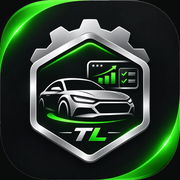
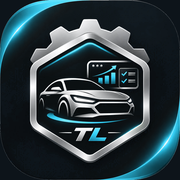
Íconos de las 4 apps en la paleta azul profundo / petróleo / turquesa
Claude-Session: https://claude.ai/code/session_01U6QaDLZrHGH71pmuLjEWnv

diff --git a/app/public/tecnicos/sw.js b/app/public/tecnicos/sw.js
@@ -1,6 +1,6 @@
 // Service worker de la app de técnicos: guarda la "cáscara" de la app para abrir rápido y sin conexión.
 // Los datos (Supabase) siempre se piden a la red; nunca se guardan en caché.
-const CACHE = 'tecnicos-v4'
+const CACHE = 'tecnicos-v5'
 self.addEventListener('install', e => { self.skipWaiting() })
 self.addEventListener('activate', e => {
   e.waitUntil(caches.keys().then(ks => Promise.all(ks.filter(k => k !== CACHE).map(k => caches.delete(k)))).then(() => self.clients.claim()))

diff --git a/app/public/gerencia/sw.js b/app/public/gerencia/sw.js
@@ -1,6 +1,6 @@
 // Service worker de la app de gerencia: guarda la "cáscara" de la app para abrir rápido y sin conexión.
 // Los datos (Supabase) siempre se piden a la red; nunca se guardan en caché.
-const CACHE = 'gerencia-v3'
+const CACHE = 'gerencia-v4'
 self.addEventListener('install', e => { self.skipWaiting() })
 self.addEventListener('activate', e => {
   e.waitUntil(caches.keys().then(ks => Promise.all(ks.filter(k => k !== CACHE).map(k => caches.delete(k)))).then(() => self.clients.claim()))

diff --git a/app/public/cliente/sw.js b/app/public/cliente/sw.js
@@ -1,6 +1,6 @@
 // Service worker de la app del cliente: guarda la "cáscara" de la app para abrir rápido y sin conexión.
 // Los datos (Supabase) siempre se piden a la red; nunca se guardan en caché.
-const CACHE = 'cliente-v3'
+const CACHE = 'cliente-v4'
 self.addEventListener('install', e => { self.skipWaiting() })
 self.addEventListener('activate', e => {
   e.waitUntil(caches.keys().then(ks => Promise.all(ks.filter(k => k !== CACHE).map(k => caches.delete(k)))).then(() => self.clients.claim()))

diff --git a/app/public/movil/sw.js b/app/public/movil/sw.js
@@ -1,6 +1,6 @@
 // Service worker de la app móvil: guarda la "cáscara" de la app para abrir rápido y sin conexión.
 // Los datos (Supabase) siempre se piden a la red; nunca se guardan en caché.
-const CACHE = 'ordenes-v3'
+const CACHE = 'ordenes-v4'
 self.addEventListener('install', e => { self.skipWaiting() })
 self.addEventListener('activate', e => {
   e.waitUntil(caches.keys().then(ks => Promise.all(ks.filter(k => k !== CACHE).map(k => caches.delete(k)))).then(() => self.clients.claim()))
